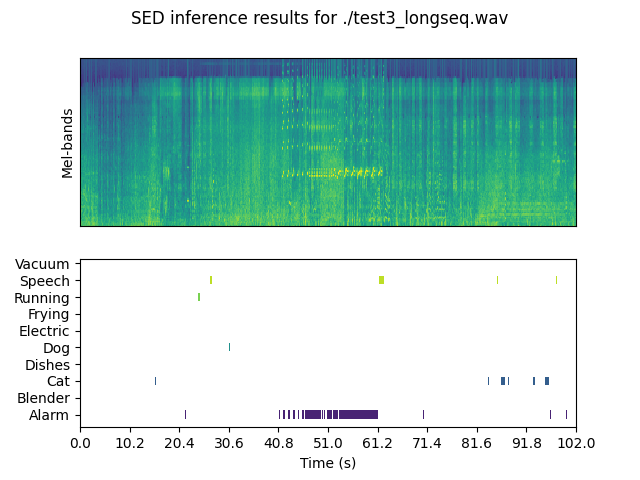
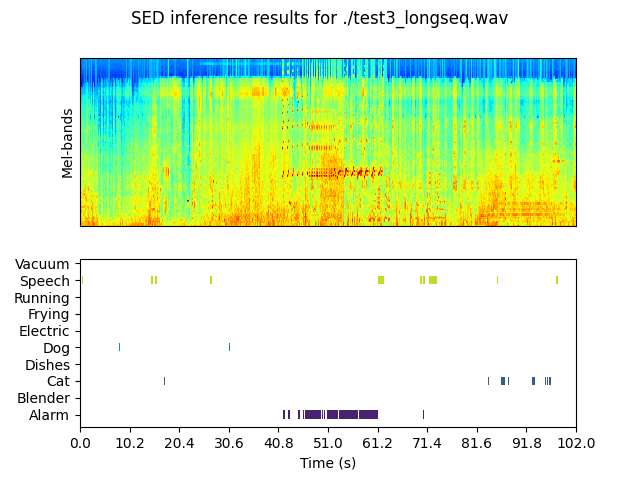
updates for torch=2.4.1, pytorch-lightning=2.4.0

diff --git a/inference.py b/inference.py
@@ -3,6 +3,7 @@ import torch
 import scipy
 import torch.nn as nn
 import numpy as np
+import math
 from torchaudio.transforms import AmplitudeToDB
 from desed_task.nnet.CRNN_e2e import CRNN
 from desed_task.utils.encoder import ManyHotEncoder
@@ -166,12 +167,12 @@ class ATSTSEDInferencer(nn.Module):
 if __name__ == "__main__":
     import soundfile as sf
     import matplotlib.pyplot as plt
-    test_file = "./test1_CNspeech.wav"
+    test_file = "YOUR_TEST_FILE_HERE"
     test_name = ".".join(test_file.split("/")[-1].split(".")[:-1])
     sed_classes = [x.split("_")[0] for x in classes_labels.keys()]
     inference_model = ATSTSEDInferencer(
-        "YOUR_CKPT_PATH",
-        "./train/confs/stage2_real.yaml",
+        "YOUR_CKPT_HERE",
+        "YOUR_CONFIG_HERE",
         overlap_dur=3)
     mel_spec = inference_model.get_logmel(test_file)
     sed_results = inference_model(test_file)
@@ -180,8 +181,8 @@ if __name__ == "__main__":
     if sed_results.sum():
         # Give sed results colors
         sed_results = sed_results * np.arange(1, len(sed_results) + 1).reshape(-1, 1) * 10
-        fig, (ax1, ax2) = plt.subplots(2, 1)
-        ax1.imshow(mel_spec, aspect="auto", origin="lower", interpolation="none")
+        fig, (ax1, ax2) = plt.subplots(2, 1, figsize=(18, 6))
+        ax1.imshow(mel_spec, aspect="auto", origin="lower", interpolation="none", cmap="jet")
         ax1.set_xticks([])
         ax1.set_yticks([])
         ax1.set_ylabel("Mel-bands")
@@ -189,7 +190,7 @@ if __name__ == "__main__":
         sed_results = np.concatenate([np.zeros_like(sed_results), sed_results], axis=1)
         sed_results = sed_results.reshape(-1, sed_results.shape[1] // 2).astype(float)
         sed_results[sed_results == 0] = np.nan
-        ax2.imshow(sed_results, aspect="auto", origin="lower", interpolation="none", vmax=100, vmin=0, cmap='viridis')
+        ax2.imshow(sed_results, aspect="auto", origin="lower", interpolation="none", vmax=math.log(1e2), vmin=math.log(1e-7), cmap='jet')
         xticks = np.linspace(0, sed_results.shape[1], 11)
         xticks_performed = ["{:.1f}".format(x) for x in np.linspace(0, sf.info(test_file).duration, 11)]
         ax2.set_xticks(xticks, xticks_performed)

diff --git a/train/local/stage1_trainer.py b/train/local/stage1_trainer.py
@@ -7,6 +7,7 @@ import pytorch_lightning as pl
 import torch
 import torch.nn as nn
 from torchaudio.transforms import AmplitudeToDB, MelSpectrogram
+import torchmetrics.classification
 
 from desed_task.data_augm import mixup
 from desed_task.utils.scaler import TorchScaler
@@ -124,18 +125,15 @@ class SEDTask4(pl.LightningModule):
             raise NotImplementedError
 
         # for weak labels we simply compute f1 score
-        self.get_weak_student_f1_seg_macro = torchmetrics.classification.f_beta.MultilabelF1Score(
+        self.get_weak_student_f1_seg_macro = torchmetrics.classification.MultilabelF1Score(
             len(self.encoder.labels),
-            average="macro",
-            compute_on_step=False,
+            average="macro"
         )
 
-        self.get_weak_teacher_f1_seg_macro = torchmetrics.classification.f_beta.MultilabelF1Score(
+        self.get_weak_teacher_f1_seg_macro = torchmetrics.classification.MultilabelF1Score(
             len(self.encoder.labels),
-            average="macro",
-            compute_on_step=False,
+            average="macro"
         )
-
         self.scaler = self._init_scaler()
         # buffer for event based scores which we compute using sed-eval
 
@@ -179,7 +177,7 @@ class SEDTask4(pl.LightningModule):
                 self._exp_dir = self.hparams["log_dir"]
         return self._exp_dir
 
-    def lr_scheduler_step(self, scheduler, optimizer_idx, metric):
+    def lr_scheduler_step(self, scheduler, metric):
         scheduler.step()
 
     def update_ema(self, alpha, global_step, model, ema_model):
@@ -528,7 +526,7 @@ class SEDTask4(pl.LightningModule):
             alpha_st=1,
             )
 
-    def validation_epoch_end(self, outputs):
+    def on_validation_epoch_end(self, outputs):
         weak_student_f1_macro = self.get_weak_student_f1_seg_macro.compute()
         weak_teacher_f1_macro = self.get_weak_teacher_f1_seg_macro.compute()
         # Strong real

diff --git a/train/local/ultra_sed_trainer.py b/train/local/ultra_sed_trainer.py
@@ -182,7 +182,7 @@ class SEDTask4(pl.LightningModule):
                 self._exp_dir = self.hparams["log_dir"]
         return self._exp_dir
 
-    def lr_scheduler_step(self, scheduler, optimizer_idx, metric):
+    def lr_scheduler_step(self, scheduler, metric):
         scheduler.step()
 
     def update_ema(self, alpha, global_step, model, ema_model):

diff --git a/train/train_stage1.py b/train/train_stage1.py
@@ -328,6 +328,7 @@ def single_run(
             limit_test_batches=limit_test_batches,
             deterministic=config["training"]["deterministic"],
             enable_progress_bar=config["training"]["enable_progress_bar"],
+            use_distributed_sampler=False
         )
     if test_state_dict is None:
 

diff --git a/desed_task/utils/schedulers.py b/desed_task/utils/schedulers.py
@@ -43,6 +43,7 @@ class BaseScheduler(object):
         plt.plot(all_lr.numpy())
         plt.show()
 
+
 class ExponentialWarmup(BaseScheduler):
     """ Scheduler to apply ramp-up during training to the learning rate.
     Args:
